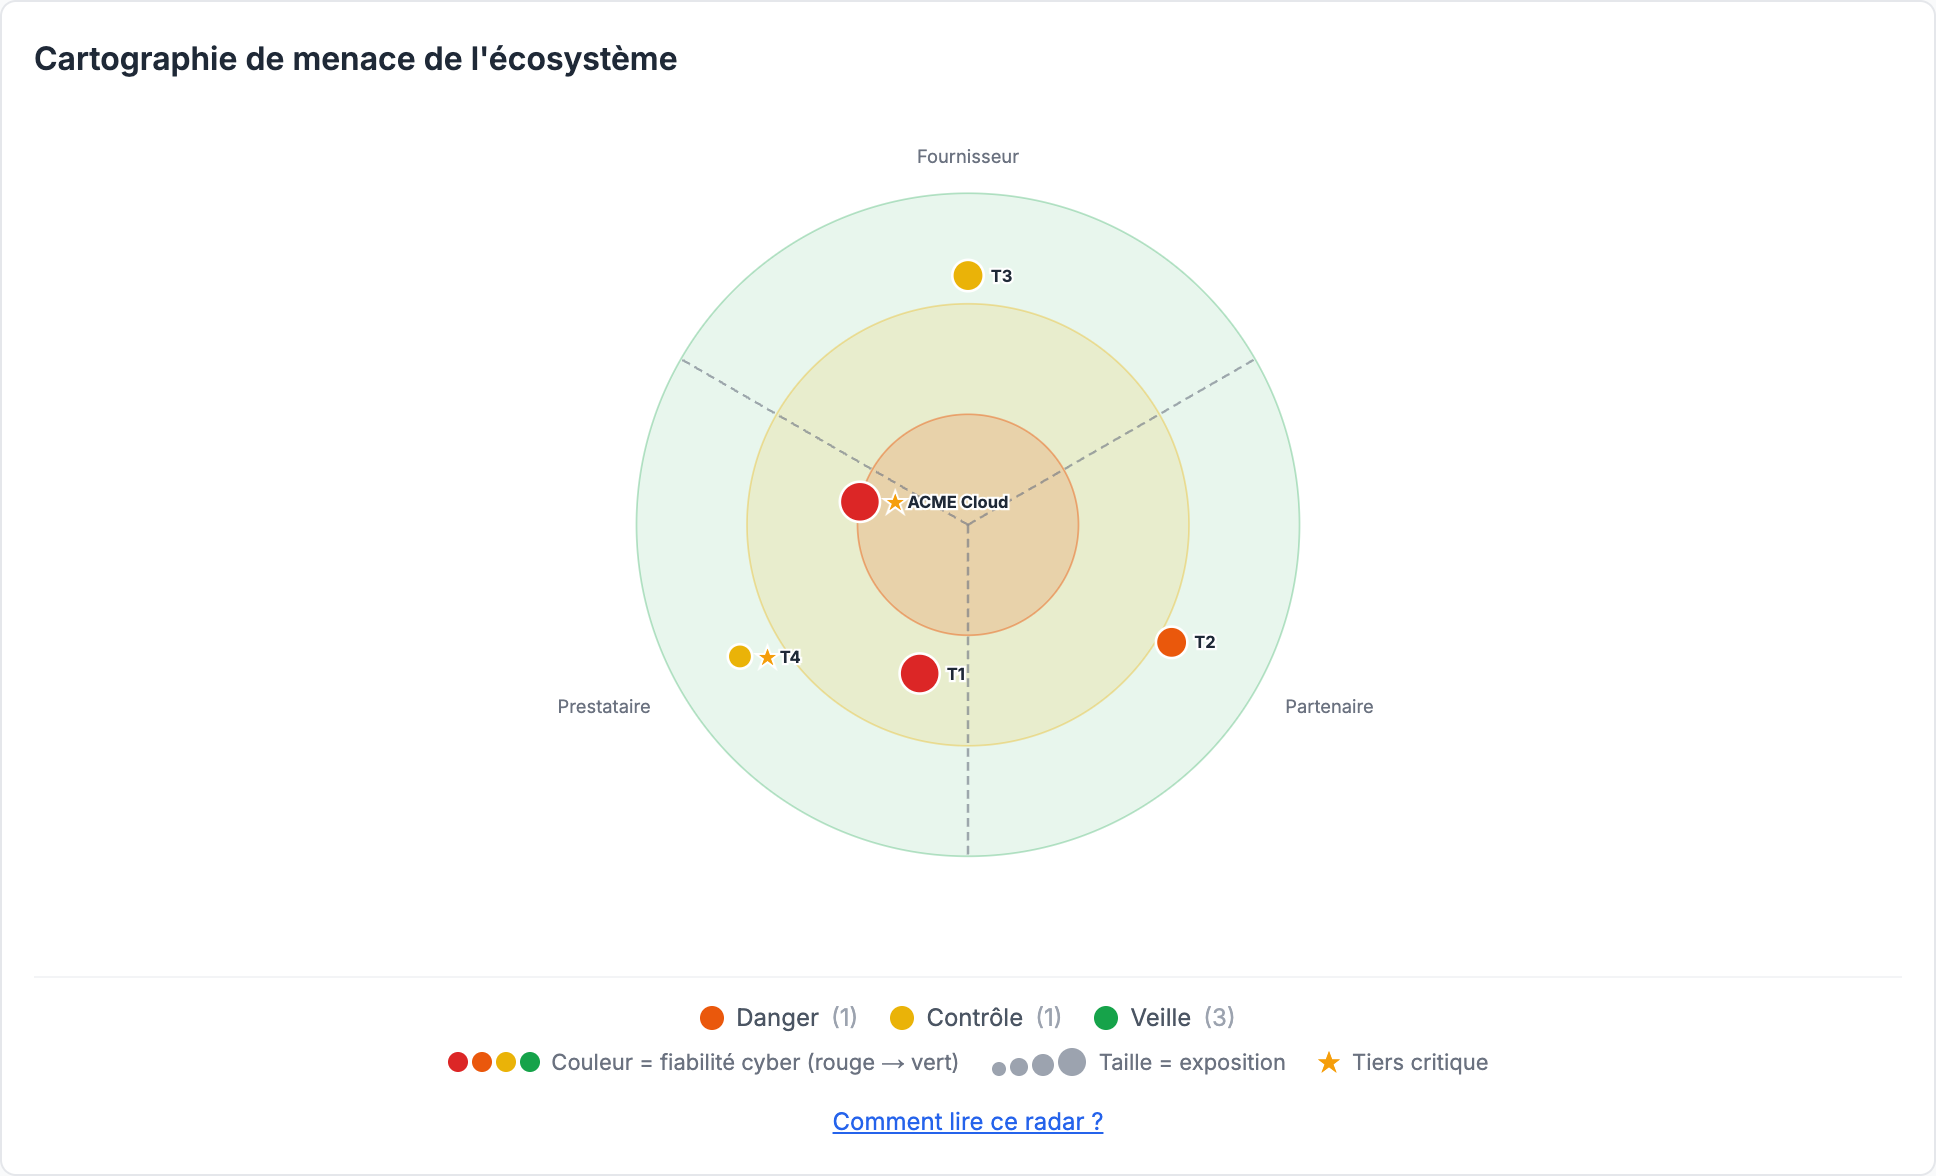
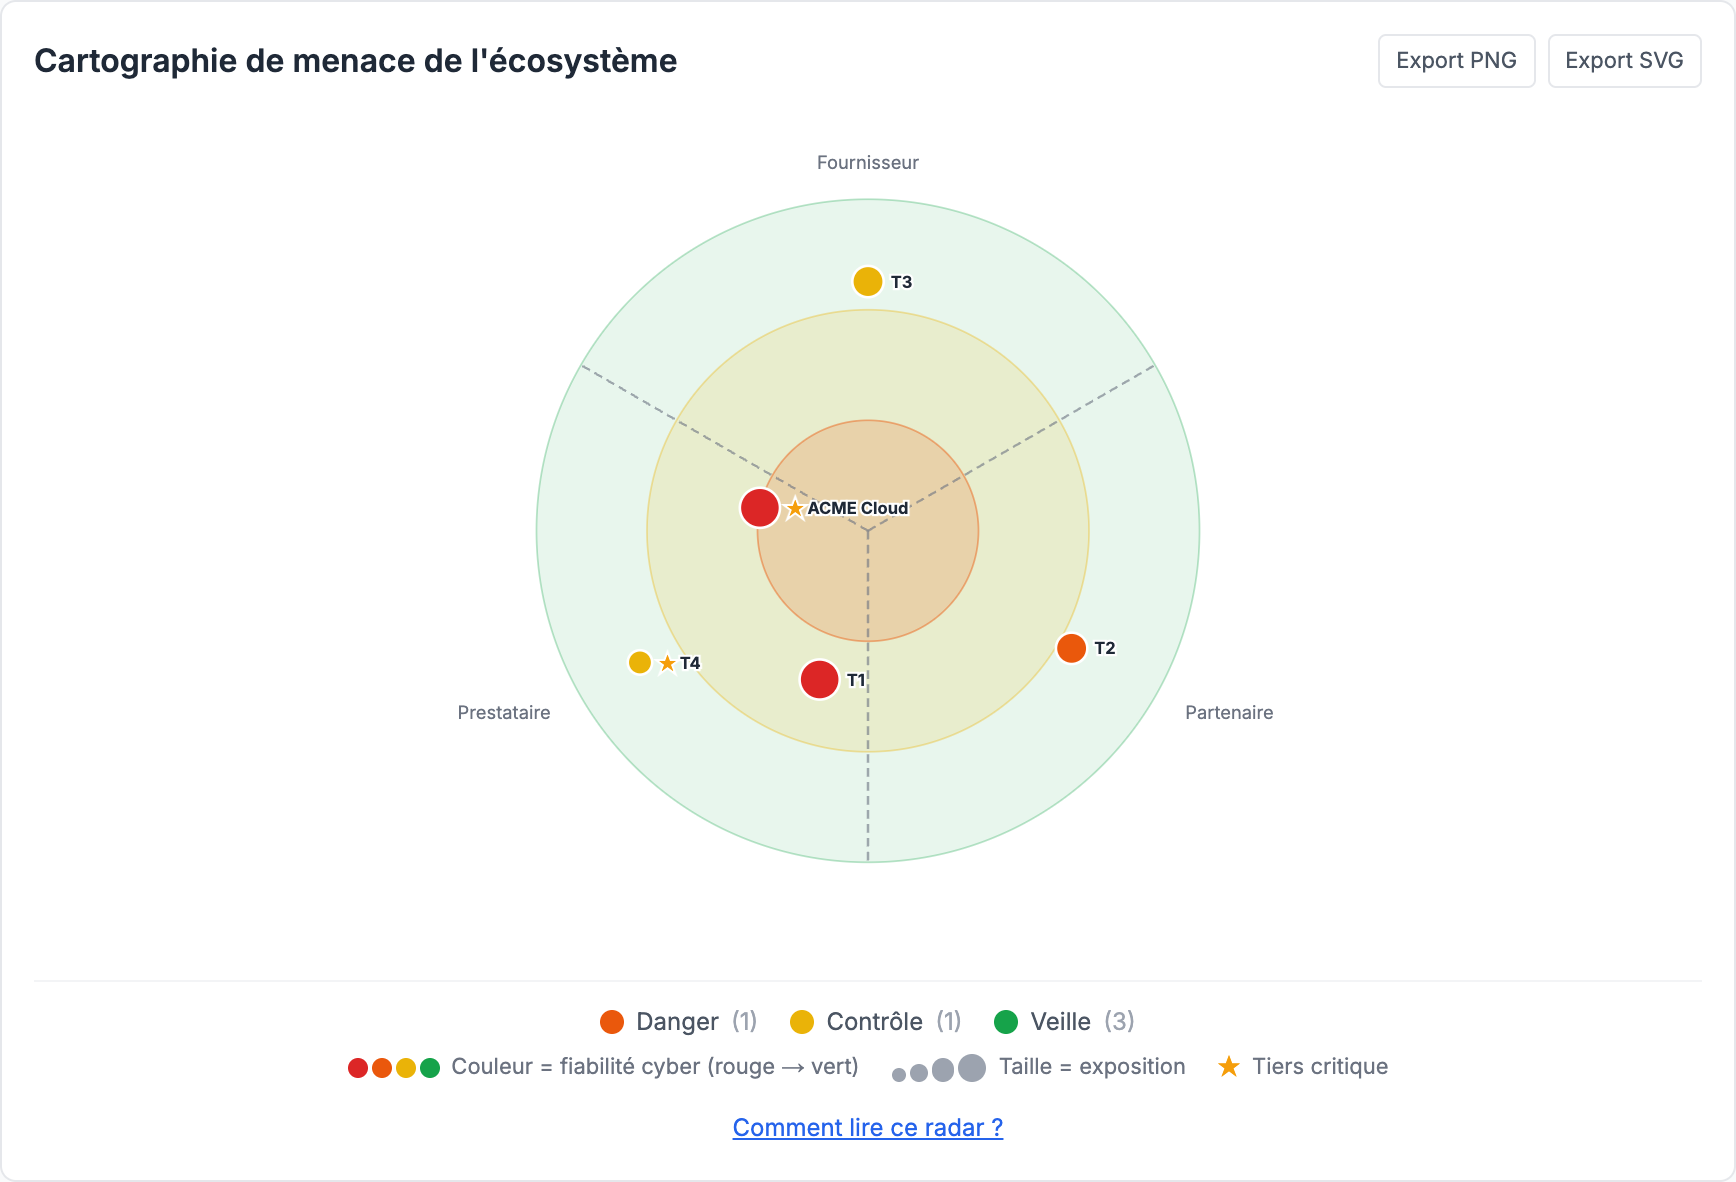
docs(readme): radar de l'écosystème dans la galerie d'aperçu (clair + sombre)
- Ajout d'une ligne « Cartographie de l'écosystème » à la galerie « Aperçu de
  l'interface » des 5 README (captures thème clair et sombre).
- Mise à jour de la capture du radar (boutons Export PNG/SVG visibles) + version sombre.

diff --git a/README.de.md b/README.de.md
@@ -109,6 +109,7 @@ ACRA ändert das: Es ist ein **interaktiver methodischer Assistent**, der Schrit
 | **Workshop 1 — Rahmen & Basis** | ![](docs/screenshots/atelier1-light.png) | ![](docs/screenshots/atelier1-dark.png) |
 | **Workshop 5 — Risikobehandlung** | ![](docs/screenshots/atelier5-light.png) | ![](docs/screenshots/atelier5-dark.png) |
 | **Risiko-Mapping** | ![](docs/screenshots/risques-light.png) | ![](docs/screenshots/risques-dark.png) |
+| **Workshop 3 — Ökosystem-Kartierung** | ![](docs/screenshots/ecosystem-radar-light.png) | ![](docs/screenshots/ecosystem-radar-dark.png) |
 | **Konfiguration (Skalen & Matrix)** | ![](docs/screenshots/configuration-light.png) | ![](docs/screenshots/configuration-dark.png) |
 | **Administration** | ![](docs/screenshots/admin-light.png) | ![](docs/screenshots/admin-dark.png) |
 | **Audit-Protokoll** | ![](docs/screenshots/admin-audit-light.png) | ![](docs/screenshots/admin-audit-dark.png) |

diff --git a/README.en.md b/README.en.md
@@ -109,6 +109,7 @@ ACRA changes that: it is an **interactive methodological assistant** that guides
 | **Workshop 1 — Scope & baseline** | ![](docs/screenshots/atelier1-light.png) | ![](docs/screenshots/atelier1-dark.png) |
 | **Workshop 5 — Risk treatment** | ![](docs/screenshots/atelier5-light.png) | ![](docs/screenshots/atelier5-dark.png) |
 | **Risk mapping** | ![](docs/screenshots/risques-light.png) | ![](docs/screenshots/risques-dark.png) |
+| **Workshop 3 — Ecosystem cartography** | ![](docs/screenshots/ecosystem-radar-light.png) | ![](docs/screenshots/ecosystem-radar-dark.png) |
 | **Configuration (scales & matrix)** | ![](docs/screenshots/configuration-light.png) | ![](docs/screenshots/configuration-dark.png) |
 | **Administration** | ![](docs/screenshots/admin-light.png) | ![](docs/screenshots/admin-dark.png) |
 | **Audit log** | ![](docs/screenshots/admin-audit-light.png) | ![](docs/screenshots/admin-audit-dark.png) |

diff --git a/README.es.md b/README.es.md
@@ -109,6 +109,7 @@ ACRA cambia esto: es un **asistente metodológico interactivo** que guía paso a
 | **Taller 1 — Encuadre y base** | ![](docs/screenshots/atelier1-light.png) | ![](docs/screenshots/atelier1-dark.png) |
 | **Taller 5 — Tratamiento del riesgo** | ![](docs/screenshots/atelier5-light.png) | ![](docs/screenshots/atelier5-dark.png) |
 | **Mapa de riesgos** | ![](docs/screenshots/risques-light.png) | ![](docs/screenshots/risques-dark.png) |
+| **Taller 3 — Cartografía del ecosistema** | ![](docs/screenshots/ecosystem-radar-light.png) | ![](docs/screenshots/ecosystem-radar-dark.png) |
 | **Configuración (escalas y matriz)** | ![](docs/screenshots/configuration-light.png) | ![](docs/screenshots/configuration-dark.png) |
 | **Administración** | ![](docs/screenshots/admin-light.png) | ![](docs/screenshots/admin-dark.png) |
 | **Registro de auditoría** | ![](docs/screenshots/admin-audit-light.png) | ![](docs/screenshots/admin-audit-dark.png) |

diff --git a/README.it.md b/README.it.md
@@ -109,6 +109,7 @@ ACRA cambia tutto questo: è un **assistente metodologico interattivo** che guid
 | **Workshop 1 — Inquadramento e base** | ![](docs/screenshots/atelier1-light.png) | ![](docs/screenshots/atelier1-dark.png) |
 | **Workshop 5 — Trattamento del rischio** | ![](docs/screenshots/atelier5-light.png) | ![](docs/screenshots/atelier5-dark.png) |
 | **Mappatura dei rischi** | ![](docs/screenshots/risques-light.png) | ![](docs/screenshots/risques-dark.png) |
+| **Workshop 3 — Mappa dell'ecosistema** | ![](docs/screenshots/ecosystem-radar-light.png) | ![](docs/screenshots/ecosystem-radar-dark.png) |
 | **Configurazione (scale e matrice)** | ![](docs/screenshots/configuration-light.png) | ![](docs/screenshots/configuration-dark.png) |
 | **Amministrazione** | ![](docs/screenshots/admin-light.png) | ![](docs/screenshots/admin-dark.png) |
 | **Registro di audit** | ![](docs/screenshots/admin-audit-light.png) | ![](docs/screenshots/admin-audit-dark.png) |

diff --git a/README.md b/README.md
@@ -109,6 +109,7 @@ ACRA change ça : c'est un **assistant méthodologique interactif** qui guide pa
 | **Atelier 1 — Cadrage & socle** | ![](docs/screenshots/atelier1-light.png) | ![](docs/screenshots/atelier1-dark.png) |
 | **Atelier 5 — Traitement du risque** | ![](docs/screenshots/atelier5-light.png) | ![](docs/screenshots/atelier5-dark.png) |
 | **Cartographie des risques** | ![](docs/screenshots/risques-light.png) | ![](docs/screenshots/risques-dark.png) |
+| **Atelier 3 — Cartographie de l'écosystème** | ![](docs/screenshots/ecosystem-radar-light.png) | ![](docs/screenshots/ecosystem-radar-dark.png) |
 | **Configuration (échelles & matrice)** | ![](docs/screenshots/configuration-light.png) | ![](docs/screenshots/configuration-dark.png) |
 | **Administration** | ![](docs/screenshots/admin-light.png) | ![](docs/screenshots/admin-dark.png) |
 | **Journal d'audit** | ![](docs/screenshots/admin-audit-light.png) | ![](docs/screenshots/admin-audit-dark.png) |